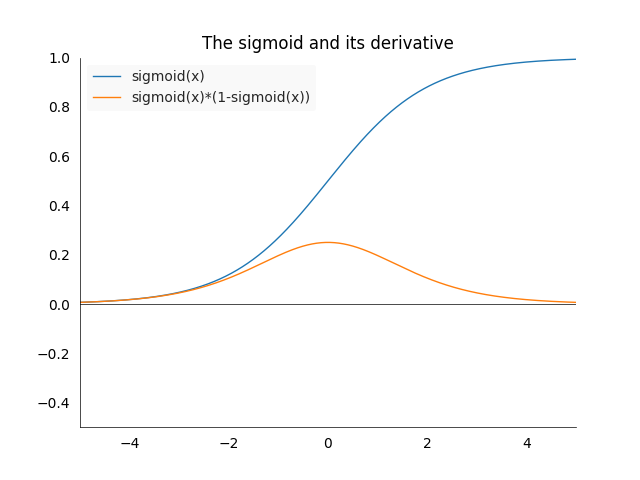
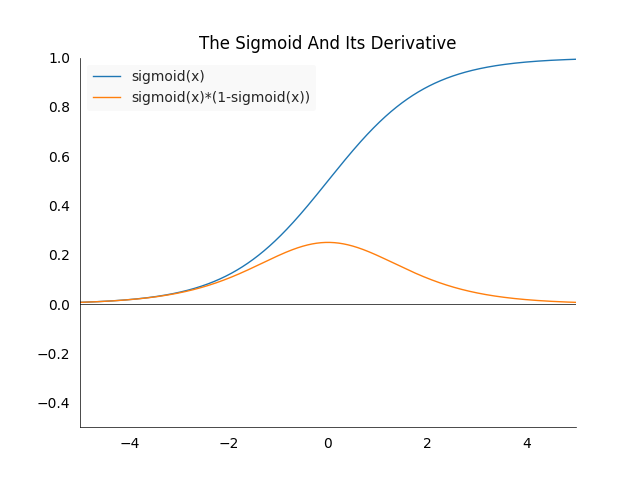
graph update and corrections on nn from scratch

Changed region(s): [[0.3125, 0.0625, 0.5, 0.125], [0.5312, 0.0625, 0.7188, 0.125]]

diff --git a/assets/images/nn_from_scratch/training_accuracy_multiple_losses.py b/assets/images/nn_from_scratch/training_accuracy_multiple_losses.py
@@ -9,7 +9,7 @@ fig, ax = plt.subplots(1)
 plt.ylim(top=y_top, bottom=y_bottom)
 plt.xlim(left=x_left, right=x_right)
 
-ax.set_title('Accuracy for different losses on 100 images')
+ax.set_title('Accuracy For Different Losses On 100 Images')
 
 x_values = [i for i in range(51)]
 accuracy_ce = [0.13, 0.21, 0.2, 0.65, 0.6, 0.71, 0.74, 0.78, 0.81, 0.84, 0.83, 0.87, 0.82, 0.88, 0.84, 0.88, 0.87, 0.9, 0.9, 0.91, 0.94, 0.95, 0.96, 0.97, 0.98, 0.99, 1.0, 1.0, 1.0, 1.0, 1.0, 1.0, 1.0, 1.0, 1.0, 1.0, 1.0, 1.0, 1.0, 1.0, 1.0, 1.0, 1.0, 1.0, 1.0, 1.0, 1.0, 1.0, 1.0, 1.0, 1.0]

diff --git a/assets/images/nn_from_scratch/training_accuracy_and_loss.py b/assets/images/nn_from_scratch/training_accuracy_and_loss.py
@@ -9,7 +9,7 @@ fig, ax = plt.subplots(1)
 plt.ylim(top=y_top, bottom=y_bottom)
 plt.xlim(left=x_left, right=x_right)
 
-ax.set_title('Accuracy and Loss on 100 images')
+ax.set_title('Accuracy And Loss On 100 Images')
 
 x_values = [i for i in range(31)]
 y_accuracy = [0.11, 0.13, 0.18, 0.23, 0.51, 0.48, 0.42, 0.57, 0.3, 0.44, 0.53, 0.57, 0.65, 0.77, 0.76, 0.79, 0.83, 0.86, 0.95, 0.97, 0.97, 0.99, 0.99, 0.99, 0.99, 0.99, 0.99, 0.99, 0.99, 1.0, 1.0]

diff --git a/assets/images/nn_from_scratch/sigmoid_derivative.py b/assets/images/nn_from_scratch/sigmoid_derivative.py
@@ -12,7 +12,7 @@ fig, ax = plt.subplots(1)
 plt.ylim(top=1, bottom=-0.5)
 plt.xlim(left=-5, right=5)
 
-ax.set_title('The sigmoid and its derivative')
+ax.set_title('The Sigmoid And Its Derivative')
 
 x = np.arange(-5, 5, 0.01)
 ppl.plot(ax, x, sigmoid(x), label='sigmoid(x)', linewidth=1.0)

diff --git a/assets/images/nn_from_scratch/gradient_descent.py b/assets/images/nn_from_scratch/gradient_descent.py
@@ -15,7 +15,7 @@ fig, ax = plt.subplots(1)
 plt.ylim(top=y_top, bottom=y_bottom)
 plt.xlim(left=x_left, right=x_right)
 
-ax.set_title('Gradient Descent on f')
+ax.set_title('Gradient Descent On f')
 
 x = np.arange(x_left, x_right, 0.01)
 ppl.plot(ax, x, f(x), label='f(x)', linewidth=1.0)

diff --git a/assets/images/loss_functions_part_1/loss_functions.py b/assets/images/loss_functions_part_1/loss_functions.py
@@ -6,7 +6,7 @@ fig, ax = plt.subplots(1)
 plt.ylim(top=5, bottom=0)
 plt.xlim(left=0, right=1)
 
-ax.set_title('Loss functions on [0,1]')
+ax.set_title('Loss Functions on [0,1]')
 
 x = np.arange(0.01, 1, 0.01)
 ppl.plot(ax, x, -1*np.log(x), label='-log(x)', linewidth=1.0)
